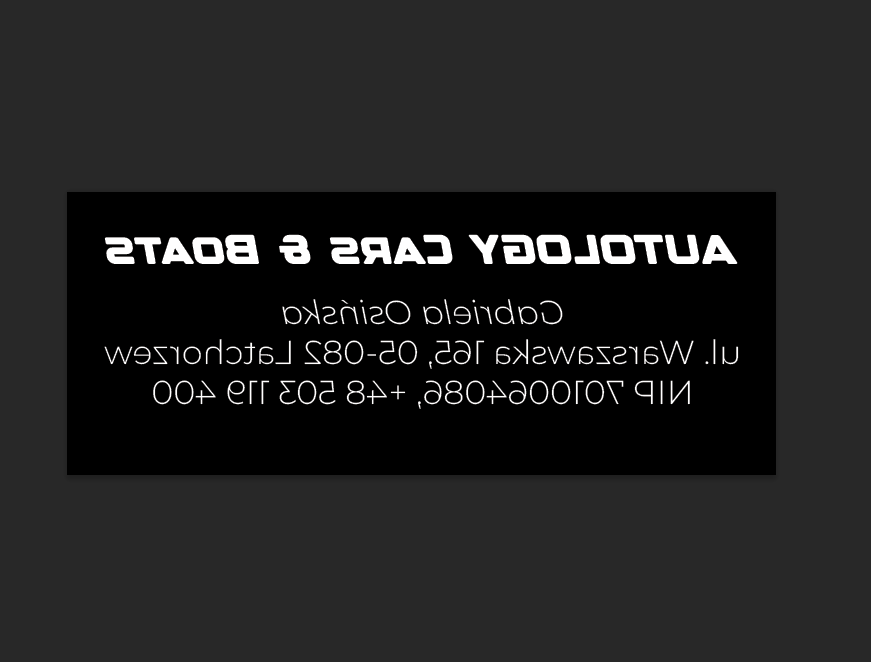
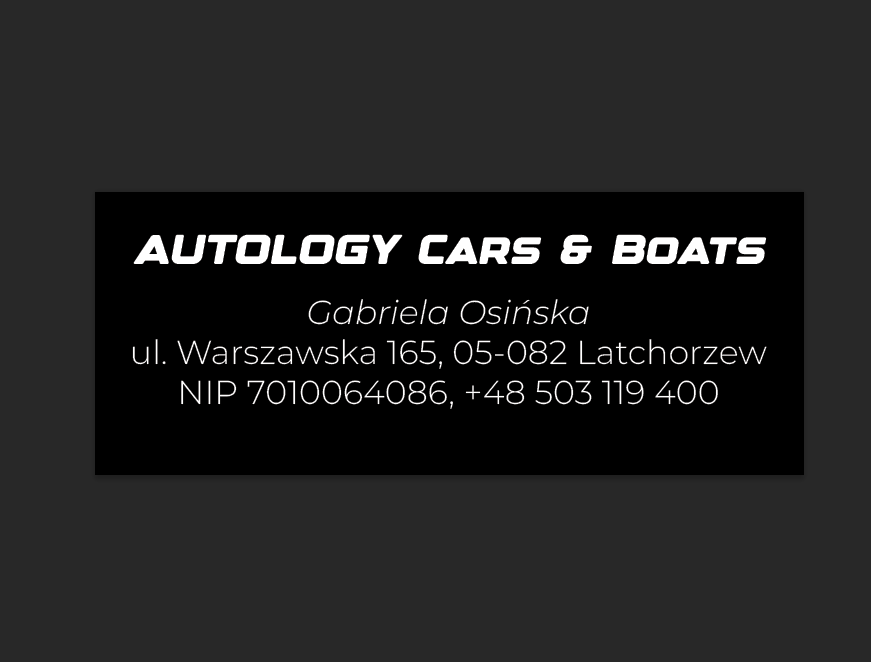
Flipped stampPreview, small UI fixes.

Changed region(s): [[0.062, 0.2719, 0.93, 0.7251]]

diff --git a/app/components/about/about.tsx b/app/components/about/about.tsx
@@ -58,10 +58,12 @@ export function About() {
         <h4>
           {language === "en" ? en.home.profiles.certH : pl.home.profiles.certH}
         </h4>
-        <li>Cisco Networking Basics</li>
-        <li>Cisco Introduction to IoT</li>
-        <li>Cisco Introduction to Cybersecurity</li>
-        <li>Microsoft Azure AZ-900</li>
+        <li className={styles.certLiItem}>Cisco Networking Basics</li>
+        <li className={styles.certLiItem}>Cisco Introduction to IoT</li>
+        <li className={styles.certLiItem}>
+          Cisco Introduction to Cybersecurity
+        </li>
+        <li className={styles.certLiItem}>Microsoft Azure AZ-900</li>
       </ul>
     </div>
   );

diff --git a/app/components/about/about.module.css b/app/components/about/about.module.css
@@ -1,7 +1,7 @@
 .container {
   display: flex;
   gap: 30px;
-  font-family: 'Faustina';
+  font-family: "Faustina";
   font-display: swap;
 
   .imgDesktop {
@@ -37,11 +37,13 @@
       text-decoration: underline;
       cursor: pointer;
     }
+    .certLiItem {
+      cursor: default;
+    }
   }
 }
 
 @media (max-width: 576px) {
-
   .container {
     display: flex;
     flex-direction: column;
@@ -61,4 +63,5 @@
   }
 }
 
-@media (min-width: 576px) and (max-width: 768px) {}
+@media (min-width: 576px) and (max-width: 768px) {
+}
